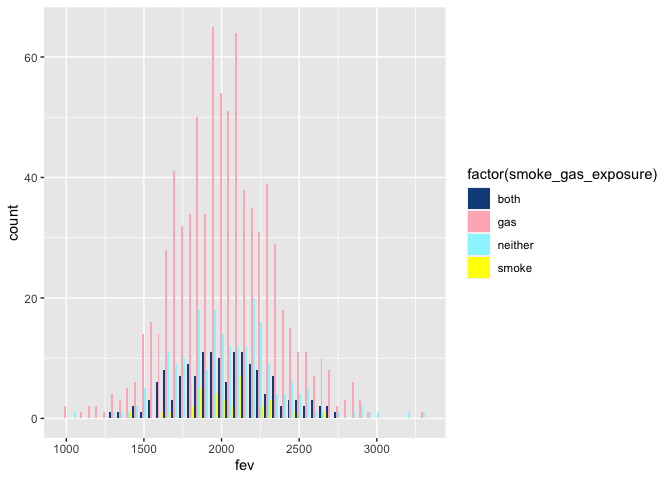
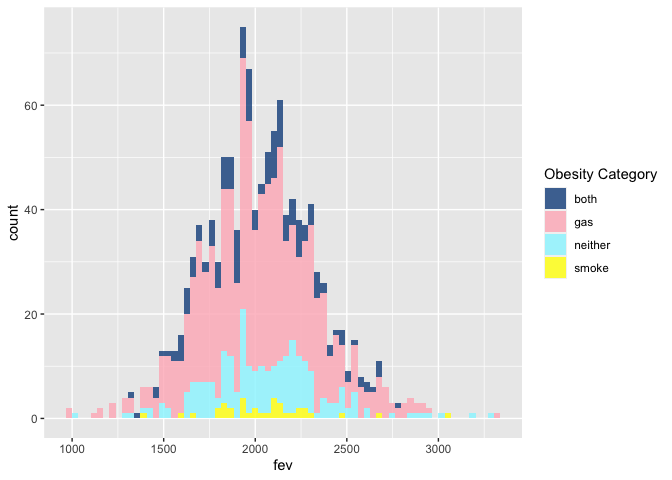
edits for stat summary and plot descriptions

diff --git a/02-assignment/README.md b/02-assignment/README.md
@@ -1,7 +1,7 @@
 Assignment 02: Data Viz and Wrangling
 ================
 Flemming Wu
-2022-10-01
+2022-10-03
 
 For this assignment, we will be analyzing data from USC’s Children’s
 Health Study. The learning objectives are to conduct data wrangling and
@@ -44,7 +44,7 @@ individual <- fread("individual.csv")
 regional <- fread("regional.csv")
 ```
 
-###### 1. After merging the data, make sure you don’t have any duplicates by counting the number of rows. Make sure it matches. 
+##### 1. After merging the data, make sure you don’t have any duplicates by counting the number of rows. Make sure it matches. 
 
 In the case of missing values, impute data using the average within the
 variables “male” and “hispanic.” If you are interested (and feel
@@ -54,27 +54,32 @@ on “Multiple Imputation” using the Amelia R package here.
 Merge data tables and ensure dimensions are correct.
 
 ``` r
-# Check rows
-dim(individual)  #merged data table should contain 1200 rows
+# Check rows and columns
+dim(individual)
 ```
 
     ## [1] 1200   23
 
 ``` r
-dim(regional)  #merged data table should have 23 + 27 - 1 columns
+dim(regional)
 ```
 
     ## [1] 12 27
+
+The merged data set should contain 1200 observations and 23 + 27 - 1
+variables.
 
 ``` r
 dat <- merge(x = individual, y = regional, by.x = "townname",
     by.y = "townname")
 
 # Check dimensions
-dim(dat)  #1200 rows and 49 columns as expected
+dim(dat)
 ```
 
     ## [1] 1200   49
+
+Merged data set has 1200 rows and 49 columns as expected.
 
 Impute missing values with averages within variables “male” and
 “hispanic”
@@ -100,14 +105,14 @@ out_names <- paste0(in_names, "_avg") #suffix for "out_names" will be _avg
 
 dat <- merge(
   
-  #group by variables "hispanic" and "male", then compute the mean of in_names for each group and assign to temporary variable x
+  #group by variables "hispanic" and "male", then compute the mean of in_names for each group and assign to temporary table x
   x = dat[,
   setNames(lapply(.SD, mean, na.rm = TRUE), out_names),
   .SDcols = in_names, 
   by  = .(hispanic, male)
   ],
   
-  #merge temporary variable x back with main data table to add new columns containing averages
+  #merge temporary table x back with main data table to add new columns containing averages
   y = dat,
   by.x = c("hispanic", "male"),
   by.y = c("hispanic", "male")
@@ -147,7 +152,9 @@ sum(is.na(dat[, ..in_names]))
 
     ## [1] 0
 
-###### 2. Create a new categorical variable named “obesity_level” using the BMI measurement (underweight BMI\<14; normal BMI 14-22; overweight BMI 22-24; obese BMI\>24). To make sure the variable is rightly coded, create a summary table that contains the minimum BMI, maximum BMI, and the total number of observations per category.
+The NA values have been successfully imputed.
+
+##### 2. Create a new categorical variable named “obesity_level” using the BMI measurement (underweight BMI\<14; normal BMI 14-22; overweight BMI 22-24; obese BMI\>24). To make sure the variable is rightly coded, create a summary table that contains the minimum BMI, maximum BMI, and the total number of observations per category.
 
 ``` r
 # removing the averages columns created for previous step
@@ -164,23 +171,25 @@ dat[, `:=`(obesity_level, fifelse(bmi < 14, "underweight", fifelse(bmi >=
 Create summary table to verify new column.
 
 ``` r
-dat[, .(min_bmi = min(bmi), max_bmi = max(bmi)), by = obesity_level][order(min_bmi)] %>%
+dat[, .(min_bmi = min(bmi), max_bmi = max(bmi), num_observations = .N),
+    by = obesity_level][order(min_bmi)] %>%
     knitr::kable()
 ```
 
-| obesity_level |  min_bmi |  max_bmi |
-|:--------------|---------:|---------:|
-| underweight   | 11.29640 | 13.98601 |
-| normal        | 14.00380 | 21.96387 |
-| overweight    | 22.02353 | 23.99650 |
-| obese         | 24.00647 | 41.26613 |
+| obesity_level |  min_bmi |  max_bmi | num_observations |
+|:--------------|---------:|---------:|-----------------:|
+| underweight   | 11.29640 | 13.98601 |               35 |
+| normal        | 14.00380 | 21.96387 |              975 |
+| overweight    | 22.02353 | 23.99650 |               87 |
+| obese         | 24.00647 | 41.26613 |              103 |
 
 The bmi variables have been categorized as intended.
 
-###### 3. Create another categorical variable named “smoke_gas_exposure” that summarizes “Second Hand Smoke” and “Gas Stove.” The variable should have four categories in total.
+##### 3. Create another categorical variable named “smoke_gas_exposure” that summarizes “Second Hand Smoke” and “Gas Stove.” The variable should have four categories in total.
 
-As some values will have been imputed with averages, I will view the
-variables
+Since the values for smoke and gasstove are both binary, but some of the
+values will have been imputed with averages, I will consider how to
+categorize the imputed values.
 
 ``` r
 dat[(smoke %between% c(0.001, 0.999)) & (gasstove %between% c(0.001,
@@ -206,8 +215,8 @@ It appears that the imputed average for smoke exposure is closer to 0,
 and the imputed average for gas exposure is closer to 1. When creating
 the smoke and gas exposure category, those that have smoke exposure = 1
 will qualify. As for the gas exposure, those that have gasstove != 0
-will qualify. Essentially, I will be rounding the smoke exposure values
-up to 1 and the gasstove exposure values down to 0.
+will qualify. Essentially, I will be rounding the imputed smoke exposure
+values up to 1 and the imputed gasstove exposure values down to 0.
 
 ``` r
 dat[, `:=`(smoke_gas_exposure, fifelse(smoke == 1 & gasstove !=
@@ -215,7 +224,7 @@ dat[, `:=`(smoke_gas_exposure, fifelse(smoke == 1 & gasstove !=
     1 & gasstove == 0, "smoke", "neither"))))]
 ```
 
-###### 4. Create four summary tables showing the average (or proportion, if binary) and sd of “Forced expiratory volume in 1 second (ml)” and asthma indicator by town, sex, obesity level, and “smoke_gas_exposure.”
+##### 4. Create four summary tables showing the average (or proportion, if binary) and sd of “Forced expiratory volume in 1 second (ml)” and asthma indicator by town, sex, obesity level, and “smoke_gas_exposure.”
 
 ``` r
 # fev and asthma by town name
@@ -434,7 +443,27 @@ dat[, .(min = min(fev), median = median(fev), max = max(fev)),
 The stats for fev in males and females falls within the range that I
 would expect them to.
 
-###### 1. Facet plot showing scatterplots with regression lines of BMI vs FEV by “townname”. 
+``` r
+summary(dat[, pm25_mass])
+```
+
+    ##    Min. 1st Qu.  Median    Mean 3rd Qu.    Max. 
+    ##   5.960   7.615  10.545  14.362  20.988  29.970
+
+There are no missing or implausible values in the PM 2.5 column.
+
+``` r
+summary(dat[, bmi])
+```
+
+    ##    Min. 1st Qu.  Median    Mean 3rd Qu.    Max. 
+    ##   11.30   15.96   17.81   18.50   19.99   41.27
+
+No missing or implausible values for bmi column. The values are within
+the range that the CDC provides for bmi measurements in children:
+<https://www.cdc.gov/healthyweight/assessing/bmi/childrens_bmi/about_childrens_bmi.html>
+
+##### 1. Facet plot showing scatterplots with regression lines of BMI vs FEV by “townname”. 
 
 ``` r
 ggplot(dat, aes(bmi, fev, color = townname)) + geom_jitter(size = 0.5) +
@@ -451,37 +480,37 @@ Upland have steeper positive slopes. This suggests that the positive
 correlation between body mass index and forced expiratory volume varies
 slightly by region.
 
-###### 2. Stacked histograms of FEV by BMI category and FEV by smoke/gas exposure. Use different color schemes than the ggplot default.
+##### 2. Stacked histograms of FEV by BMI category and FEV by smoke/gas exposure. Use different color schemes than the ggplot default.
 
 ``` r
 ggplot(data = dat, mapping = aes(x = fev)) + geom_histogram(mapping = aes(fill = factor(obesity_level)),
-    bins = 70, position = "dodge", binwidth = 50) + scale_fill_manual(values = c("darkseagreen2",
-    "dodgerblue", "firebrick2", "gold1"))
+    bins = 70, alpha = 0.8) + scale_fill_manual(values = c("darkseagreen2",
+    "dodgerblue", "firebrick2", "gold1")) + guides(fill = guide_legend(title = "Obesity Category"))
 ```
 
-![](README_files/figure-gfm/histograms%20of%20fev%20by%20bmi-1.png)<!-- -->
+![](README_files/figure-gfm/histograms%20of%20fev%20by%20bmi-1.png)<!-- -->  
+The plot above reveals that most people in the data set fall under the
+normal obesity level category, and that the average forced expiratory
+volume (fev) for people in this category lies at about 2000 with a
+normal distribution. As for people in the underweight category, the
+average fev is lower than that of those in the normal category, at about
+1750. For people in both the overweight and obese categories, the
+average fev lies about at 2300, which is higher than the average for the
+people in the normal category.
 
 ``` r
 ggplot(data = dat, mapping = aes(x = fev)) + geom_histogram(mapping = aes(fill = factor(smoke_gas_exposure)),
-    bins = 70, position = "dodge", binwidth = 50) + scale_fill_manual(values = c("dodgerblue4",
-    "lightpink", "cadetblue1", "yellow1"))
+    bins = 70, alpha = 0.8) + scale_fill_manual(values = c("dodgerblue4",
+    "lightpink", "cadetblue1", "yellow1")) + guides(fill = guide_legend(title = "Obesity Category"))
 ```
 
 ![](README_files/figure-gfm/histogram%20of%20fev%20by%20smoke/gas-1.png)<!-- -->  
-Of the two histograms above, the one on top reveals that most people in
-the data set fall under the normal obesity level category, and that the
-average forced expiratory volume (fev) for people in this category lies
-at about 2000 with a normal distribution. As for people in the
-underweight category, the average fev is lower than that of those in the
-normal category, at about 1750. For people in both the overweight and
-obese categories, the average fev lies about at 2300, which is higher
-than the average for the people in the normal category.  
-The histogram on the bottom reveals that most people in the data set are
-classified as either having exposure to both gas and smoke, or gas only.
-Additionally, all of the categories have an average fev of about 2000,
-with a standard deviation of about 300.
+The plot above reveals that most people in the data set are classified
+as either having exposure to both gas and smoke, or gas only.
+Additionally, the fev for each of the obesity categories are centered
+around 2050, with a standard deviation of about 300.
 
-###### 3. Barchart of BMI by smoke/gas exposure. 
+##### 3. Barchart of BMI by smoke/gas exposure.
 
 ``` r
 ggplot(data = dat, mapping = aes(x = obesity_level, fill = factor(smoke_gas_exposure))) +
@@ -499,24 +528,22 @@ the other types of exposure (both or neither), the proportion of people
 in those categories sits at about one third of that of the proportion of
 people exposed to gas only.
 
-###### 4. Statistical summary graphs of FEV by BMI and FEV by smoke/gas exposure category. 
+##### 4. Statistical summary graphs of FEV by BMI and FEV by smoke/gas exposure category.
 
 ``` r
-ggplot(data = dat, mapping = aes(x = fev, y = bmi, col = obesity_level)) +
-    geom_jitter() + geom_smooth(formula = y ~ x, method = "lm",
-    se = FALSE, size = 0.75) + geom_smooth(mapping = aes(x = fev,
-    y = bmi), col = "black", method = "lm", formula = y ~ x,
-    se = FALSE, size = 0.75, linetype = "twodash")
+ggplot(data = dat, mapping = aes(x = forcats::fct_reorder(factor(obesity_level),
+    fev, median), y = fev, color = obesity_level)) + stat_summary(fun.min = min,
+    fun.max = max, fun = median) + xlab("Obesity Category")
 ```
 
-![](README_files/figure-gfm/plot%20stat%20summary%20of%20fev%20by%20bmi-1.png)<!-- -->  
+![](README_files/figure-gfm/plot%20stat%20summary%20of%20fev%20by%20obesity%20category-1.png)<!-- -->  
 The above plot reveals that there is a positive correlation between
-increase in bmi and increase in forced expiratory volume, as shown in
-the dashed black regression line drawn through the points. Furthermore,
-within each of the obesity level categories, there seems to be the
-steepest positive correlation slope for the relationship between bmi and
-fev for those in the normal obesity level category, followed by obese,
-then underweight, and finally overweight.
+increase in bmi and increase in forced expiratory volume. The median fev
+for those that are underweight is about 1700, and increases to 1950 for
+those that are normal, and up to 2200 and 2250 for those that are
+overweight and obese, respectively. Additionally, the range of values
+for the normal and obese categories are larger than the underweight and
+overweight categories.
 
 ``` r
 ggplot(data = dat, mapping = aes(y = fev, x = smoke_gas_exposure,
@@ -526,14 +553,14 @@ ggplot(data = dat, mapping = aes(y = fev, x = smoke_gas_exposure,
 
 ![](README_files/figure-gfm/plot%20stat%20summary%20of%20fev%20by%20smoke/gas%20exposure-1.png)<!-- -->  
 The stat summary above reveals that when looking at fev by smoke and gas
-exposure, there the median fev for the groups all lie at 2000. The
-groups having no exposure to smoke or gas, as well as the group exposed
-to smoke only, have medians slightly higher than the other two groups.
-Additionally, the range of observations for the groups exposed to
-neither smoke nor gas, and gas only, are greater than for the other two
-groups.
+exposure, the median fev for the groups all lie at approximately 2000.
+The groups having no exposure to smoke or gas, as well as the group
+exposed to smoke only, have medians slightly higher than the other two
+groups. Additionally, the range of observations for the groups exposed
+to neither smoke nor gas, and gas only, are greater than for the other
+two groups.
 
-###### 5. A leaflet map showing the concentrations of PM2.5 mass in each of the CHS communities. 
+##### 5. A leaflet map showing the concentrations of PM2.5 mass in each of the CHS communities. 
 
 ``` r
 qpal <- colorQuantile("YlOrRd", dat[, pm25_mass], n = 12)
@@ -546,7 +573,7 @@ leaflet(dat) %>%
     addCircles(lat = ~lat, lng = ~lon, color = ~qpal(pm25_mass),
         radius = 400, fillOpacity = 1) %>%
     addLegend(colors = qpal_colors, labels = qpal_labs, title = "conc. of PM 2.5 mass",
-        position = "topright", opacity = 0.5)
+        opacity = 0.5)
 ```
 
 ![](README_files/figure-gfm/plot%20leaflet%20map-1.png)<!-- -->  
@@ -557,7 +584,7 @@ or San Luis Obispo that are further from large population centers and
 closer to the coastline are low concentration levels of pm 2.5 of below
 8 observed.
 
-###### 6. Choose a visualization to examine whether PM2.5 mass is associated with FEV. 
+##### 6. Choose a visualization to examine whether PM2.5 mass is associated with FEV. 
 
 ``` r
 ggplot(data = dat, mapping = aes(y = fev, x = pm25_mass, group = factor(pm25_mass))) +
